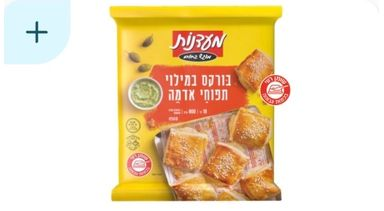
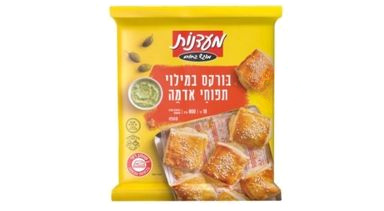
Surgelés : 3 photos retouchées par le gérant (le rayon entier)
Les trois articles du rayon « Surgelés » (burekas, mini pizzas, pizza
margherita) : le « + » et la pastille de Wolt effacés. 519 retouchées sur
718 ; il reste 117 photos de Wolt non retouchées sur des articles en
vente (électronique, apéro, entretien).

Claude-Session: https://claude.ai/code/session_01JfiBMDfPpcu8d2j1eWQu1s

Changed region(s): [[0.0, 0.0, 0.1875, 0.3128], [0.6562, 0.3128, 0.7812, 0.5118]]

diff --git a/tests/reperes-wolt.test.ts b/tests/reperes-wolt.test.ts
@@ -198,7 +198,7 @@ describe("photos repère", () => {
     }
     // Les premiers lots : les douze étuis de capsules Nespresso, puis le reste de l'épicerie.
     expect(Object.keys(registre).filter((f) => f.startsWith("capsules-nespresso-")).length).toBeGreaterThanOrEqual(12);
-    expect(Object.keys(registre).length).toBeGreaterThanOrEqual(516); // les rayons Crèmerie (228), Pain (75), Boissons (157), Boucherie & poisson (24) et les deux photos de Wolt des fruits et légumes
+    expect(Object.keys(registre).length).toBeGreaterThanOrEqual(519); // les rayons Crèmerie (228), Pain (75), Boissons (157), Boucherie & poisson (24), Surgelés (3) et les deux photos de Wolt des fruits et légumes
     // Une photo du site lui-même (libre de droits, `public/`) n'est jamais au registre : ce n'est pas une photo de Wolt.
     for (const fichier of Object.keys(registre)) expect(existsSync(`public/produits/frais/${fichier}`), fichier).toBe(false);
     // L'outil ne pose qu'une retouche : même taille, rien que la photo en service ne montrait déjà, rien d'écrit hors du dossier privé.

diff --git a/CLAUDE.md b/CLAUDE.md
@@ -71,7 +71,7 @@ npm run seed         # catégories + réglages ; seed:demo ajoute des produits d
 - **« Je n'ai pas d'images alors que je t'ai tout envoyé de Wolt »** (le gérant, 17 novembre 2026, deux captures de l'ACCUEIL PUBLIC à l'appui — des cartes d'articles avec l'icône du rayon à la place d'une photo). Ce jour-là, « mets-moi toutes les photos ! » voulait dire : montre les photos de Wolt AUX CLIENTS, sur les articles du site. On ne le fait pas, et on le lui dit sans détour : ces photos sont celles de Wolt (découpées dans ses captures, souvent avec le « + » et les pastilles de Wolt dessus) ; lui envoyer une capture ne les rend pas siennes, et les publier sur un site qui revend les articles de Wolt l'expose auprès de Wolt, dont il dépend pour ses achats. Elles restent dans son espace (les 718 articles en vente ont la leur) — c'était la réponse de l'après-midi ; prévenu, il a décidé autrement le soir même (« Photos de Wolt pour tout le monde », plus bas : sa décision, on ne la rediscute pas). Ce qu'on lui propose pour les remplacer : « Photos rapides » → « Coller » (une image qu'il choisit lui-même, de préférence la photo de la marque), la photo prise au téléphone quand il a l'article en main (« Ajouter »), ou l'accord écrit de Wolt — alors elles se publient. LEÇON : « sans images » peut désigner son espace (15 novembre) OU le site public (17 novembre) — regarder sa capture ; s'il n'y en a pas, lui demander de quel écran il parle AVANT de chercher une panne. Ce jour-là on a d'abord cherché une panne d'affichage dans son espace, à tort : il n'y en avait pas. Il en reste un contrôle utile, lisible de l'extérieur : `/admin/repere/etat` (sans connexion : des NOMBRES seulement, jamais un nom ni une photo) dit combien de photos de la liste sont lisibles sur le serveur — 718 sur 718 — et ce que le serveur qui répond a fait des demandes de photos depuis son démarrage (servies, refusées, inconnues, illisibles). Pièges rencontrés : `pkill -f "next start"` ne tue PAS le serveur (le processus s'appelle `next-server`) — un ancien serveur reste sur le port et répond à la place du nouveau : `pkill -f next-server` ; et `npm run build` signale « Dynamic filesystem access causes tracing of the whole project » pour cette route (c'est ce qui embarque les photos : ne pas le « corriger » sans relire `/admin/repere/etat` après la mise en ligne).
 - **Vue du gérant sur le site** (17 novembre 2026, sa réponse au refus ci-dessus : « oui mais grâce à ces images de Wolt je peux chercher les images qui correspondent à chaque produit — alors mets-moi les images »). C'est sur SON site qu'il regarde ses articles : quand il est connecté à son espace sur l'appareil, chaque carte et chaque fiche de la boutique dont l'article n'a pas encore sa photo montre celle de Wolt, étiquetée « Wolt ». Une seule porte : `lib/vue-gerant.ts` — `vueDuGerant()` dit qui regarde (`gerant`, `pourTous`, `photosDeWolt`, `etiquettes`), `reperesPour(liste)` donne la photo de chaque article sans photo (elle relit le `nomWolt` sans le sortir) ; les lectures de `lib/catalogue.ts` passent toutes par `versPublics`, qui pose `ProduitPublic.repere` (`{ photo, etiquette }`, ou `null` : le visiteur ne reçoit alors même pas l'adresse). Affichage : `components/admin/ApercuGerant.tsx` (`ApercuSurCarte` à la place de l'icône du rayon ; `ApercuSurFiche` : la photo entière et, pour le gérant, « Mettre sa photo » → `/admin/produits/photos#p-<id>`, la ligne de l'article visée d'office dans « Photos rapides »). L'étiquette « Wolt » et ce lien n'existent que pour le gérant (`repere.etiquette`) : le site ne nomme jamais Wolt devant un client. Sous l'en-tête, le bandeau `BandeauDuGerant` (`components/admin/VueDuGerant.tsx`, rien pour un client ; en français, de gauche à droite, même sur une page en hébreu) dit qui voit ces photos, mène à « Photos rapides » et aux réglages, et porte « Voir comme un client » / « Revenir à ma vue » (`changerLaVueDuSite`, cookie `vue_client`, douze heures : un simple choix d'affichage, qui ne vaut rien sans la connexion du gérant). Une image qu'il colle dans « Photos rapides » prend la place de la photo de Wolt, pour lui comme pour ses clients. Les pages de la boutique ne sont gardées par aucun cache partagé (`force-dynamic`, `private, no-store`) : ne jamais en ajouter un sans sortir `repere` de ce qui est gardé. Vérifier : `tests/navigateur/vue-gerant.mjs` (112 vérifications, dans les deux états du réglage ci-dessous ; il coche et décoche le réglage puis le remet : base locale seulement — `SANS_GERANT=1` sur le vrai site : la partie « client » seule, sans rien modifier), `tests/reperes-wolt.test.ts`.
 - **Photos de Wolt pour tout le monde** (décision du gérant, 17 novembre 2026 au soir : « le site a 0 client, on est 2 à bosser dessus et on ne peut pas se connecter à l'admin à chaque fois — active-moi les photos pour tout le monde »). Prévenu deux fois, le jour même, que ces photos sont celles de Wolt et des marques et de ce que cela risque auprès de Wolt, il a choisi : c'est SA décision, on l'applique sans la rediscuter. C'est un RÉGLAGE, pas du code : `Reglages.photosWoltPourTous` (Réglages → « Photos de Wolt pour tout le monde », faux par défaut dans le schéma), coché une seule fois par la mise en ligne (`montrerLesPhotosDeWoltATous`, clé dans `operationsFaites`) — s'il le décoche, il le reste. Coché : tout visiteur voit la photo de Wolt sur les articles sans photo (sans étiquette), et la route `/admin/repere/<fichier>` la sert sans connexion (`public, max-age=600` : décochée, la case fait effet en dix minutes au plus ; le réglage lui-même est relu toutes les dix secondes, `photosDeWoltPourTous`). Décoché : retour à la vue du gérant seule, la route exige de nouveau sa connexion. Dans les deux cas ces photos restent hors de `public/`, ne sont jamais copiées dans `photoUrl`, et les moteurs de recherche n'y vont pas (`/admin` fermé dans `robots.txt`, en-tête `noindex`). `/admin/repere/etat` porte `pourTous` : on lit de l'extérieur l'état du réglage. Ce qui reste vrai, à lui redire UNE fois quand il annoncera des clients (pas avant, pas à chaque message) : décocher la case, ou d'ici là remplacer les photos par les siennes dans « Photos rapides » — chaque image collée prend la place de celle de Wolt. Ne pas étendre : pas de photo de Wolt dans un e-mail, la carte d'aperçu de lien, le panier, ni comme photo enregistrée d'un article. S'il envoie une capture du site avec des photos de Wolt, c'est normal : le réglage est coché.
-- **Les photos de Wolt retouchées par le gérant** (24 novembre 2026 : « si je t'envoie un fichier zip, tu peux le décompresser ? j'ai mes nouvelles images dedans » — après avoir reçu l'export de toutes les photos du site, un ZIP rangé par rayon où chaque image porte le nom de l'article). Ses « nouvelles images » sont les MÊMES photos repère (384 × 211), dont il a effacé le « + » et les pastilles de Wolt : il les renvoie par lots, dans un ZIP, sous le nom que l'export leur a donné (« Capsules Nespresso Capriccio 60 g.jpg »). Chaque retouche REMPLACE le fichier de `prive/reperes-wolt` qu'elle retouche — même nom de fichier, donc rien d'autre ne change : le site la montre partout où il montrait l'ancienne (cartes, fiches, espace gérant), sous le même réglage « Photos de Wolt pour tout le monde », et le gérant connecté la voit toujours étiquetée « Wolt ». Elle RESTE une photo repère : jamais dans `public/`, jamais copiée dans `photoUrl` — effacer le « + » ne change pas à qui est la photo ; on le lui a dit une fois, en lui laissant le choix d'en faire les photos définitives de ces articles s'il le demande en le sachant. Poser un lot : décompresser l'archive dans un dossier vide à elle (données reçues : on n'en lit que les points), `npx tsx tests/outils/poser-photos-retouchees.ts <dossier>` (essai à blanc), puis `--poser`. L'outil ne pose qu'une vraie retouche — un article de ce nom existe, même taille que la photo en service, et ce que l'image montre était DÉJÀ dans la photo en service (`ressemblance` : une retouche efface et n'ajoute rien — le « + », les pastilles, l'étiquette de poids de Wolt, souvent tout le fond gris d'une photo du traiteur ou de la boulangerie, DÉTOURÉE : il peut n'en rester qu'un cinquième, d'où des seuils larges, 80 % de « déjà là » et 10 % de « gardé », qui restent très loin d'une autre image — 3 à 13 % pour un autre article ; une image glissée sous un mauvais nom, ou une autre photo du même article, est refusée), moins de 40 Ko — et note le lot dans `prive/reperes-retouches.json`. Où l'on en est : 516 sur 718 (le 24 novembre : trois dossiers de dix, puis les rayons Crèmerie, Pain, Boissons, Fruits & légumes et Boucherie & poisson entiers) — tout « Courses & épicerie » (27 articles, dont les 12 étuis Nespresso), toute la « Crèmerie & œufs » (231 ; ses quatre boîtes d'œufs ont déjà la photo libre du site), tout « Pain & pâtisserie » (75), toutes les « Boissons » (157), les deux seules photos de Wolt des « Fruits & légumes » (betteraves, menthe) et toute la « Boucherie & poisson » (24) ; il reste 120 photos de Wolt non retouchées sur des articles en vente (Électronique 80, Apéro 22, Entretien 15, Surgelés 3). **Il détoure aussi les photos LIBRES du site** (rayon « Fruits & légumes », `public/produits/frais`, 600 × 600) : sur les 38 de ce rayon, sept sont revenues détourées sur blanc (aubergines, citrons, laitue romaine, oignons verts, poivrons tricolores, pommes de terre rouges, pommes Granny Smith), deux seulement réenregistrées (ail, oignons jaunes : laissées) et 29 inchangées. Une photo du site détourée prend la place du MÊME fichier de `public/produits/frais` — la seule écriture de l'outil hors du dossier privé, et seulement si l'image est cette photo du site retouchée (même taille, rien qu'elle ne montrait déjà : une photo de Wolt ne peut pas y arriver). Les licences (CC BY, CC BY-SA) permettent de modifier à condition de le dire : la photo est marquée `detouree` dans `lib/credits-photos.ts`, sa ligne de la page /credits porte « fond retiré » (`credits.fondRetire`, cinq langues) et le paragraphe « Modifications » le dit (`tests/photos.test.ts`). La bannière de l'accueil et l'affiche A4 sont des images à part : elles gardent les anciennes photos tant qu'on ne les refait pas. Il renvoie maintenant des RAYONS ENTIERS, dans le dossier que l'export leur a donné (« 02 - Crèmerie & œufs », 235 images) : l'outil y range à part, sous « Laissées » et sans échouer, ce qui n'est pas à poser — la photo du site elle-même (les œufs : `public/produits/frais`, 600 × 600, pas une photo de Wolt), une image qu'il n'a pas touchée, et une photo déjà retouchée DAVANTAGE dans un lot précédent (les trois Actimel : dans le rayon entier il n'avait effacé que le « + », dans son dossier 3 les bandeaux aussi — on garde la mieux retouchée, et on le lui dit). Dans un rayon entier il n'efface souvent que le « + » : les bandeaux de couleur de Wolt (« 16 יחידות », le goût) restent sur la photo — c'est son choix, ne pas les retirer à sa place. Ses archives arrivent avec des noms de fichiers aux accents décomposés (« é » en deux signes) : l'outil les lit quand même (`normalize("NFC")`). Regarder tout de même le lot sur une planche avant de le poser, lui dire le compte (posées, refusées et pourquoi) et ce qui manque. Une AUTRE photo du même article (une vraie photo de marque, plus grande) n'est pas une retouche : elle se pose comme photo de l'article (« Photos rapides »), pas ici. Après la mise en ligne, l'ancienne image peut rester dix minutes dans les caches (`max-age=600`). `tests/reperes-wolt.test.ts`.
+- **Les photos de Wolt retouchées par le gérant** (24 novembre 2026 : « si je t'envoie un fichier zip, tu peux le décompresser ? j'ai mes nouvelles images dedans » — après avoir reçu l'export de toutes les photos du site, un ZIP rangé par rayon où chaque image porte le nom de l'article). Ses « nouvelles images » sont les MÊMES photos repère (384 × 211), dont il a effacé le « + » et les pastilles de Wolt : il les renvoie par lots, dans un ZIP, sous le nom que l'export leur a donné (« Capsules Nespresso Capriccio 60 g.jpg »). Chaque retouche REMPLACE le fichier de `prive/reperes-wolt` qu'elle retouche — même nom de fichier, donc rien d'autre ne change : le site la montre partout où il montrait l'ancienne (cartes, fiches, espace gérant), sous le même réglage « Photos de Wolt pour tout le monde », et le gérant connecté la voit toujours étiquetée « Wolt ». Elle RESTE une photo repère : jamais dans `public/`, jamais copiée dans `photoUrl` — effacer le « + » ne change pas à qui est la photo ; on le lui a dit une fois, en lui laissant le choix d'en faire les photos définitives de ces articles s'il le demande en le sachant. Poser un lot : décompresser l'archive dans un dossier vide à elle (données reçues : on n'en lit que les points), `npx tsx tests/outils/poser-photos-retouchees.ts <dossier>` (essai à blanc), puis `--poser`. L'outil ne pose qu'une vraie retouche — un article de ce nom existe, même taille que la photo en service, et ce que l'image montre était DÉJÀ dans la photo en service (`ressemblance` : une retouche efface et n'ajoute rien — le « + », les pastilles, l'étiquette de poids de Wolt, souvent tout le fond gris d'une photo du traiteur ou de la boulangerie, DÉTOURÉE : il peut n'en rester qu'un cinquième, d'où des seuils larges, 80 % de « déjà là » et 10 % de « gardé », qui restent très loin d'une autre image — 3 à 13 % pour un autre article ; une image glissée sous un mauvais nom, ou une autre photo du même article, est refusée), moins de 40 Ko — et note le lot dans `prive/reperes-retouches.json`. Où l'on en est : 519 sur 718 (le 24 novembre : trois dossiers de dix, puis les rayons Crèmerie, Pain, Boissons, Fruits & légumes, Boucherie & poisson et Surgelés entiers) — tout « Courses & épicerie » (27 articles, dont les 12 étuis Nespresso), toute la « Crèmerie & œufs » (231 ; ses quatre boîtes d'œufs ont déjà la photo libre du site), tout « Pain & pâtisserie » (75), toutes les « Boissons » (157), les deux seules photos de Wolt des « Fruits & légumes » (betteraves, menthe), toute la « Boucherie & poisson » (24) et les « Surgelés » (3) ; il reste 117 photos de Wolt non retouchées sur des articles en vente (Électronique 80, Apéro 22, Entretien 15). **Il détoure aussi les photos LIBRES du site** (rayon « Fruits & légumes », `public/produits/frais`, 600 × 600) : sur les 38 de ce rayon, sept sont revenues détourées sur blanc (aubergines, citrons, laitue romaine, oignons verts, poivrons tricolores, pommes de terre rouges, pommes Granny Smith), deux seulement réenregistrées (ail, oignons jaunes : laissées) et 29 inchangées. Une photo du site détourée prend la place du MÊME fichier de `public/produits/frais` — la seule écriture de l'outil hors du dossier privé, et seulement si l'image est cette photo du site retouchée (même taille, rien qu'elle ne montrait déjà : une photo de Wolt ne peut pas y arriver). Les licences (CC BY, CC BY-SA) permettent de modifier à condition de le dire : la photo est marquée `detouree` dans `lib/credits-photos.ts`, sa ligne de la page /credits porte « fond retiré » (`credits.fondRetire`, cinq langues) et le paragraphe « Modifications » le dit (`tests/photos.test.ts`). La bannière de l'accueil et l'affiche A4 sont des images à part : elles gardent les anciennes photos tant qu'on ne les refait pas. Il renvoie maintenant des RAYONS ENTIERS, dans le dossier que l'export leur a donné (« 02 - Crèmerie & œufs », 235 images) : l'outil y range à part, sous « Laissées » et sans échouer, ce qui n'est pas à poser — la photo du site elle-même (les œufs : `public/produits/frais`, 600 × 600, pas une photo de Wolt), une image qu'il n'a pas touchée, et une photo déjà retouchée DAVANTAGE dans un lot précédent (les trois Actimel : dans le rayon entier il n'avait effacé que le « + », dans son dossier 3 les bandeaux aussi — on garde la mieux retouchée, et on le lui dit). Dans un rayon entier il n'efface souvent que le « + » : les bandeaux de couleur de Wolt (« 16 יחידות », le goût) restent sur la photo — c'est son choix, ne pas les retirer à sa place. Ses archives arrivent avec des noms de fichiers aux accents décomposés (« é » en deux signes) : l'outil les lit quand même (`normalize("NFC")`). Regarder tout de même le lot sur une planche avant de le poser, lui dire le compte (posées, refusées et pourquoi) et ce qui manque. Une AUTRE photo du même article (une vraie photo de marque, plus grande) n'est pas une retouche : elle se pose comme photo de l'article (« Photos rapides »), pas ici. Après la mise en ligne, l'ancienne image peut rester dix minutes dans les caches (`max-age=600`). `tests/reperes-wolt.test.ts`.
 - **Ce que Wolt ne vend pas est SUPPRIMÉ du site** (décision du gérant, 15 novembre 2026 : « tout ce que tu ne vois pas sur les photos, tu me le supprimes — je ne peux pas faire des produits que Wolt n'a pas »). La seule preuve qu'un article n'est pas chez Wolt est la page ENTIÈRE de son rayon : une liste par page entière reçue, dans `prisma/absents-de-wolt.ts` (`ABSENTS_DE_WOLT`), appliquée une seule fois par `supprimerLesAbsentsDeWolt` (supprimés pour de bon — masqués, ils resteraient dans son espace ; une commande passée garde sa ligne). Une page partielle (« Les plus commandés », « Promotions », des captures d'écran qui ne se recouvrent pas) ne prouve RIEN : ne rien supprimer d'après elle, et le lui dire — une suppression « de tout ce qui n'a pas de photo » aurait emporté un tiers du catalogue, dont des rayons entiers dont il n'a jamais envoyé la page. Fait : le rayon Boissons (page entière du 15 novembre, 261 cartes) — 16 boissons supprimées, 157 restent. Ne sont jamais dans ces listes : un article que Wolt affichait lors d'un relevé précédent et plus ce jour-là (il a son nom exact, son prix, souvent sa photo ; Wolt peut le remettre en rayon : on le signale au gérant, qui décide de le masquer) ; un article de sa liste dont il a noté lui-même le prix d'achat (il l'a trouvé sur Wolt : `prixAchat: null` dans la condition). Pour un autre rayon : lui demander la page entière (« כל הפריטים » du rayon, défilée jusqu'en bas), comparer TOUS les articles en vente du rayon à la page — pas seulement ceux sans photo —, lui montrer la liste, puis ajouter une entrée (`tests/absents-de-wolt.test.ts`).
 - **Ce qui a sa photo de Wolt se vend** (décision du gérant, 16 novembre 2026 : « mets-moi même les produits que tu as supprimés, si tu as les images »). Les 21 articles SUPPRIMÉS n'avaient aucune image (ils l'ont été parce que Wolt ne les montrait pas) : aucun n'est revenu. Mais 40 articles MASQUÉS avaient leur photo ; on lui a posé la question groupe par groupe, avec la raison de chaque masquage, et il a choisi les trois : 7 boissons que Wolt n'affichait plus le 15 novembre, 20 poissons surgelés, 13 viandes et volailles (`prisma/remise-en-vente-1116.ts`, `remettreEnVenteCeQuiAUnePhoto`, une seule fois, seulement un article encore masqué qui a un prix ; `tests/remise-en-vente-avec-photo.test.ts`). Sa règle — je reconnais l'article, donc je le vends — passe donc AVANT ses décisions du 11 novembre (viande : cacherout) et du 15 (poisson surgelé, boissons absentes de la page entière), mais pour ces 40 articles seulement : les 27 viandes, les 2 poissons surgelés et les 339 autres articles sans photo restent masqués, l'alcool reste « à réfléchir », la liste Dynamica reste masquée. Quand une capture montre un article masqué, il reçoit sa photo et revient en vente — SAUF ce qu'il a retiré lui-même le 19 novembre (plus bas) : la viande et le poulet frais, le poisson frais et surgelé, la viande surgelée et les glaces ne reviennent que sur sa demande ; ne pas AJOUTER de nouveaux articles de viande pour autant (`tests/retrait-viande.test.ts`). Le rayon où la viande revient a repris son nom, « Boucherie & poisson » (« Meat & fish », « Мясо и рыба », « בשר ודגים », « Carne y pescado » : `rayons.poisson` des cinq dictionnaires), à la MÊME adresse `poisson` ; la viande s'y range dans le sous-rayon « Viande & volaille », qui existait déjà. Résultat ce jour-là : 718 articles en vente, qui ont tous leur photo de Wolt (Crèmerie 235, Boissons 157, Électronique 80, Pain 75, Boucherie & poisson 53, Fruits & légumes 40, Épicerie 27, Apéro 22, Entretien 15, Surgelés 14) — 678 depuis ses retraits du 19 novembre (Boucherie & poisson 24, Surgelés 3) ; plus aucun rayon ne tient en 12 articles (`parcours-rayons.mjs` suit les surgelés comme un rayon à sous-rayons). Les 7 boissons peuvent manquer sur Wolt le jour d'une commande : il le sait.
 - **Viande et poulet frais : retirés** (décision du gérant, 19 novembre 2026 : « enlève-moi tout ce qui est viande, poulet frais »). Sept des treize viandes revenues en vente le 16 — celles dont le nom dit « frais », toutes au poids, rayon « Boucherie & poisson » : cinq poulets (blanc, aiguillettes, émincé, steaks de pargit, assortiment) et deux bœufs (entrecôte, émincé) — sont MASQUÉES une seule fois (`VIANDE_FRAICHE`, `prisma/retrait-viande-fraiche-1119.ts` ; `retirerLaViandeFraiche`, lancée APRÈS `remettreEnVenteCeQuiAUnePhoto` : sur une base neuve celle-ci les remet d'abord en vente). Masquées, pas supprimées : elles gardent nom, prix et photo dans son espace ; ce qu'il remet en vente lui-même y reste. Il n'a parlé que du FRAIS : restent en vente la charcuterie sous vide (deux saucisses et deux pastramis Tirat Zvi, seuls articles du sous-rayon « Viande & volaille » désormais) et les deux surgelés (blanc de poulet, bœuf haché) — on le lui a dit ; s'il veut les retirer aussi, une opération de plus, sur sa demande. Désormais une capture de Wolt ne ramène plus de viande ni de poulet frais en vente : seulement s'il le demande. 711 articles en vente après ce retrait, Boucherie & poisson 46 (`tests/retrait-viande-fraiche.test.ts`).
